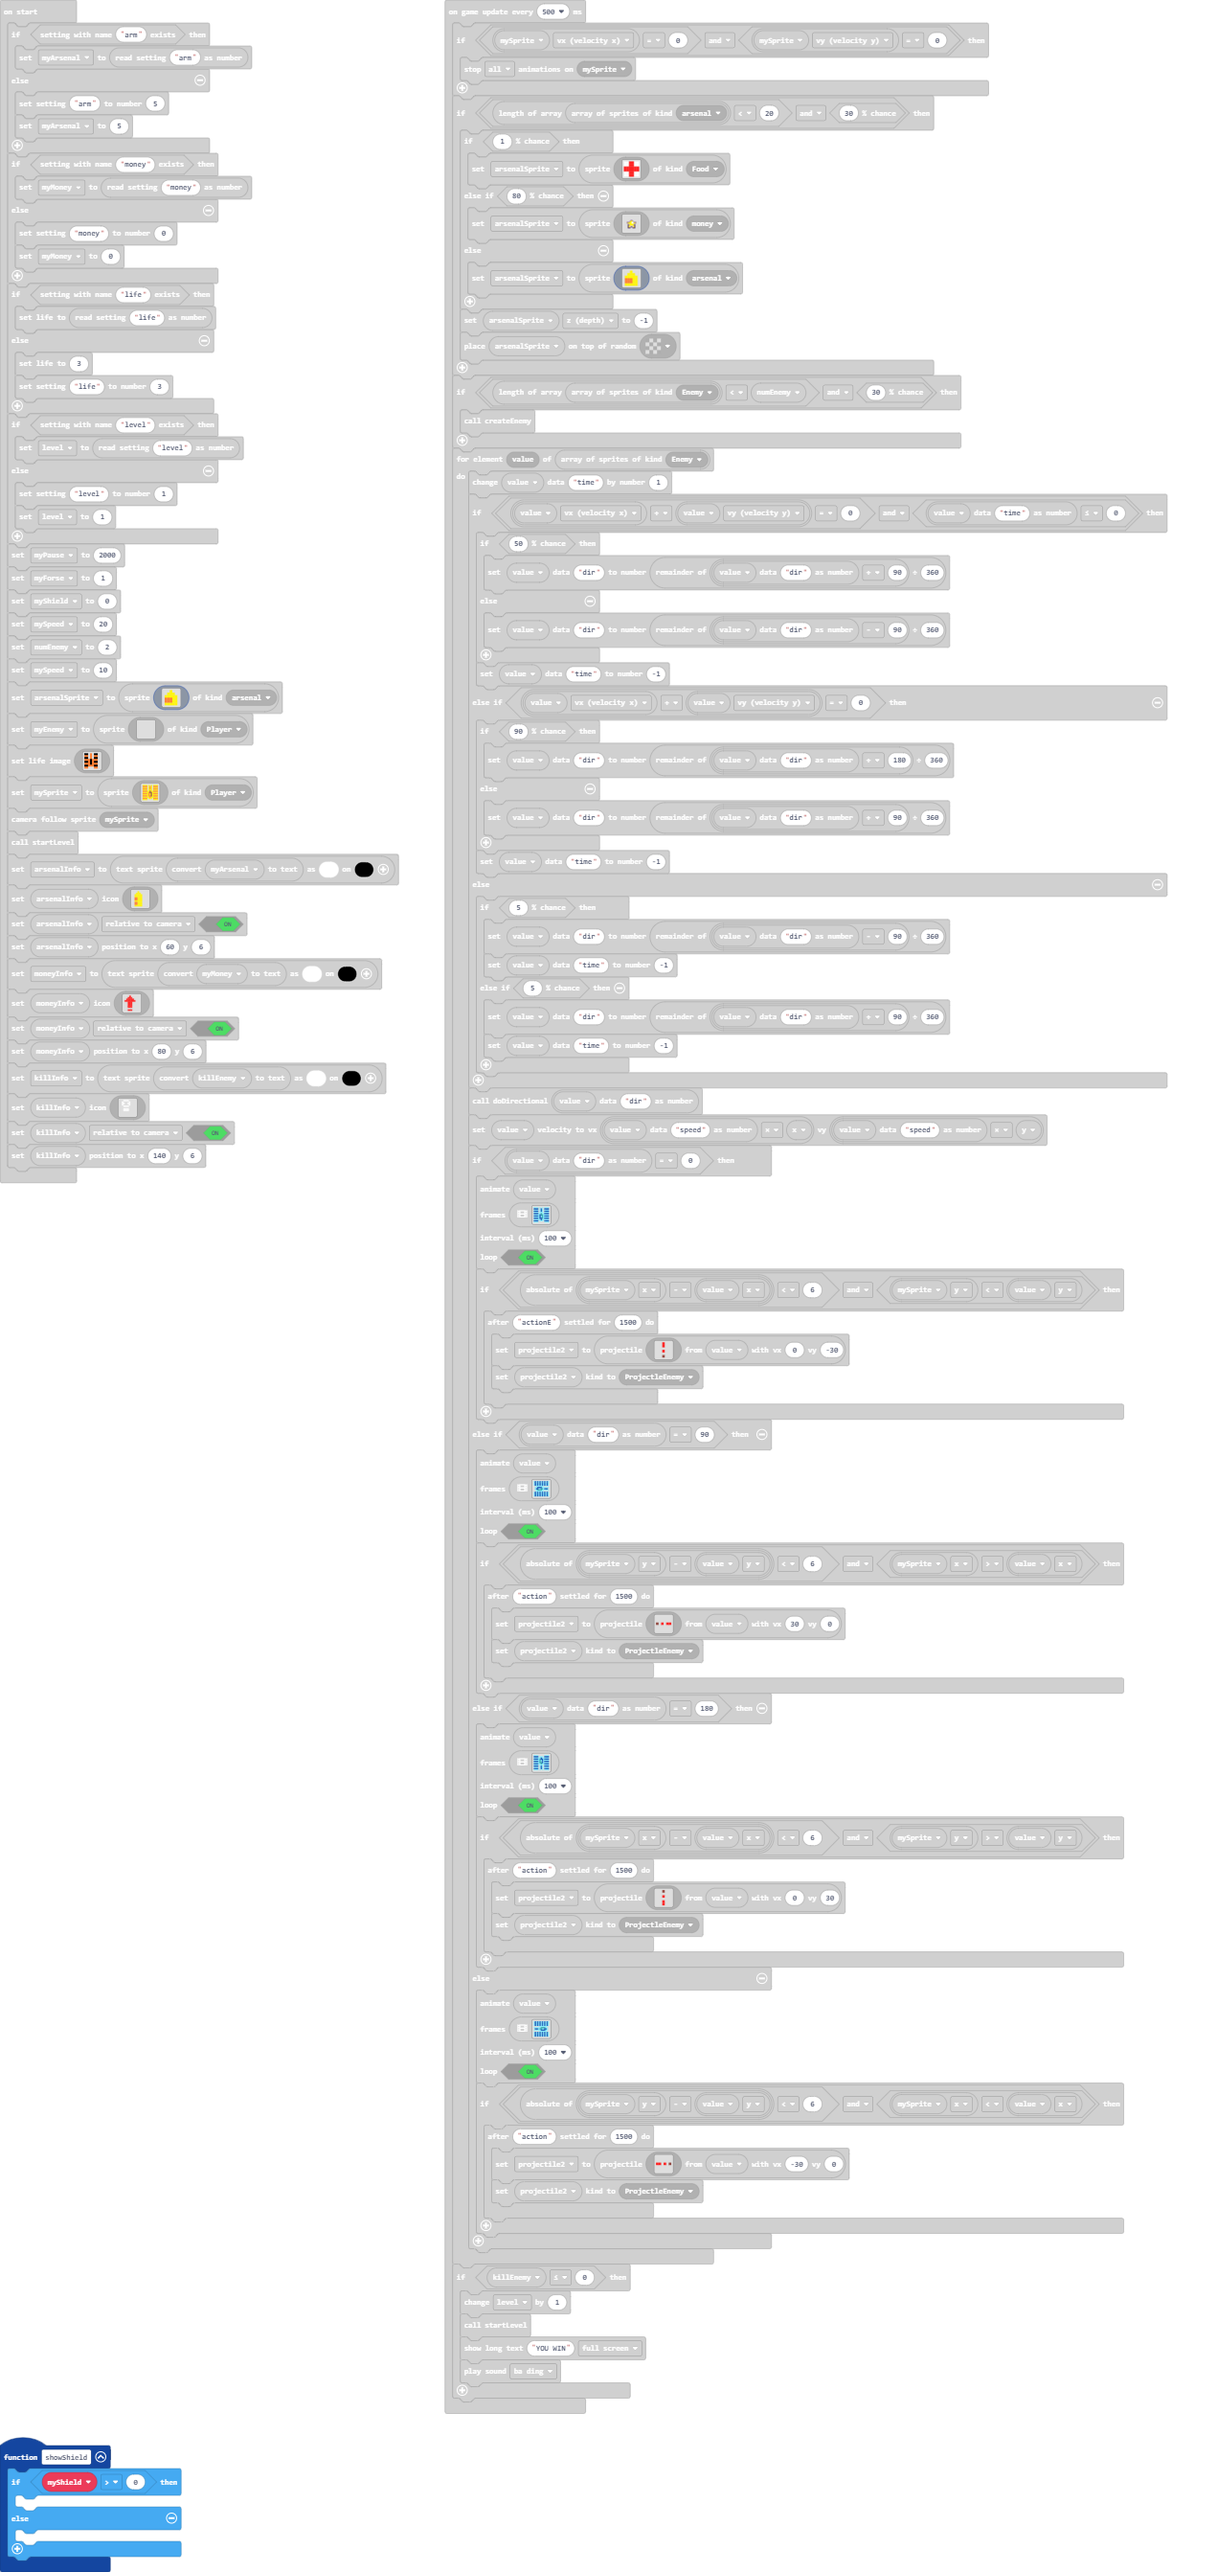
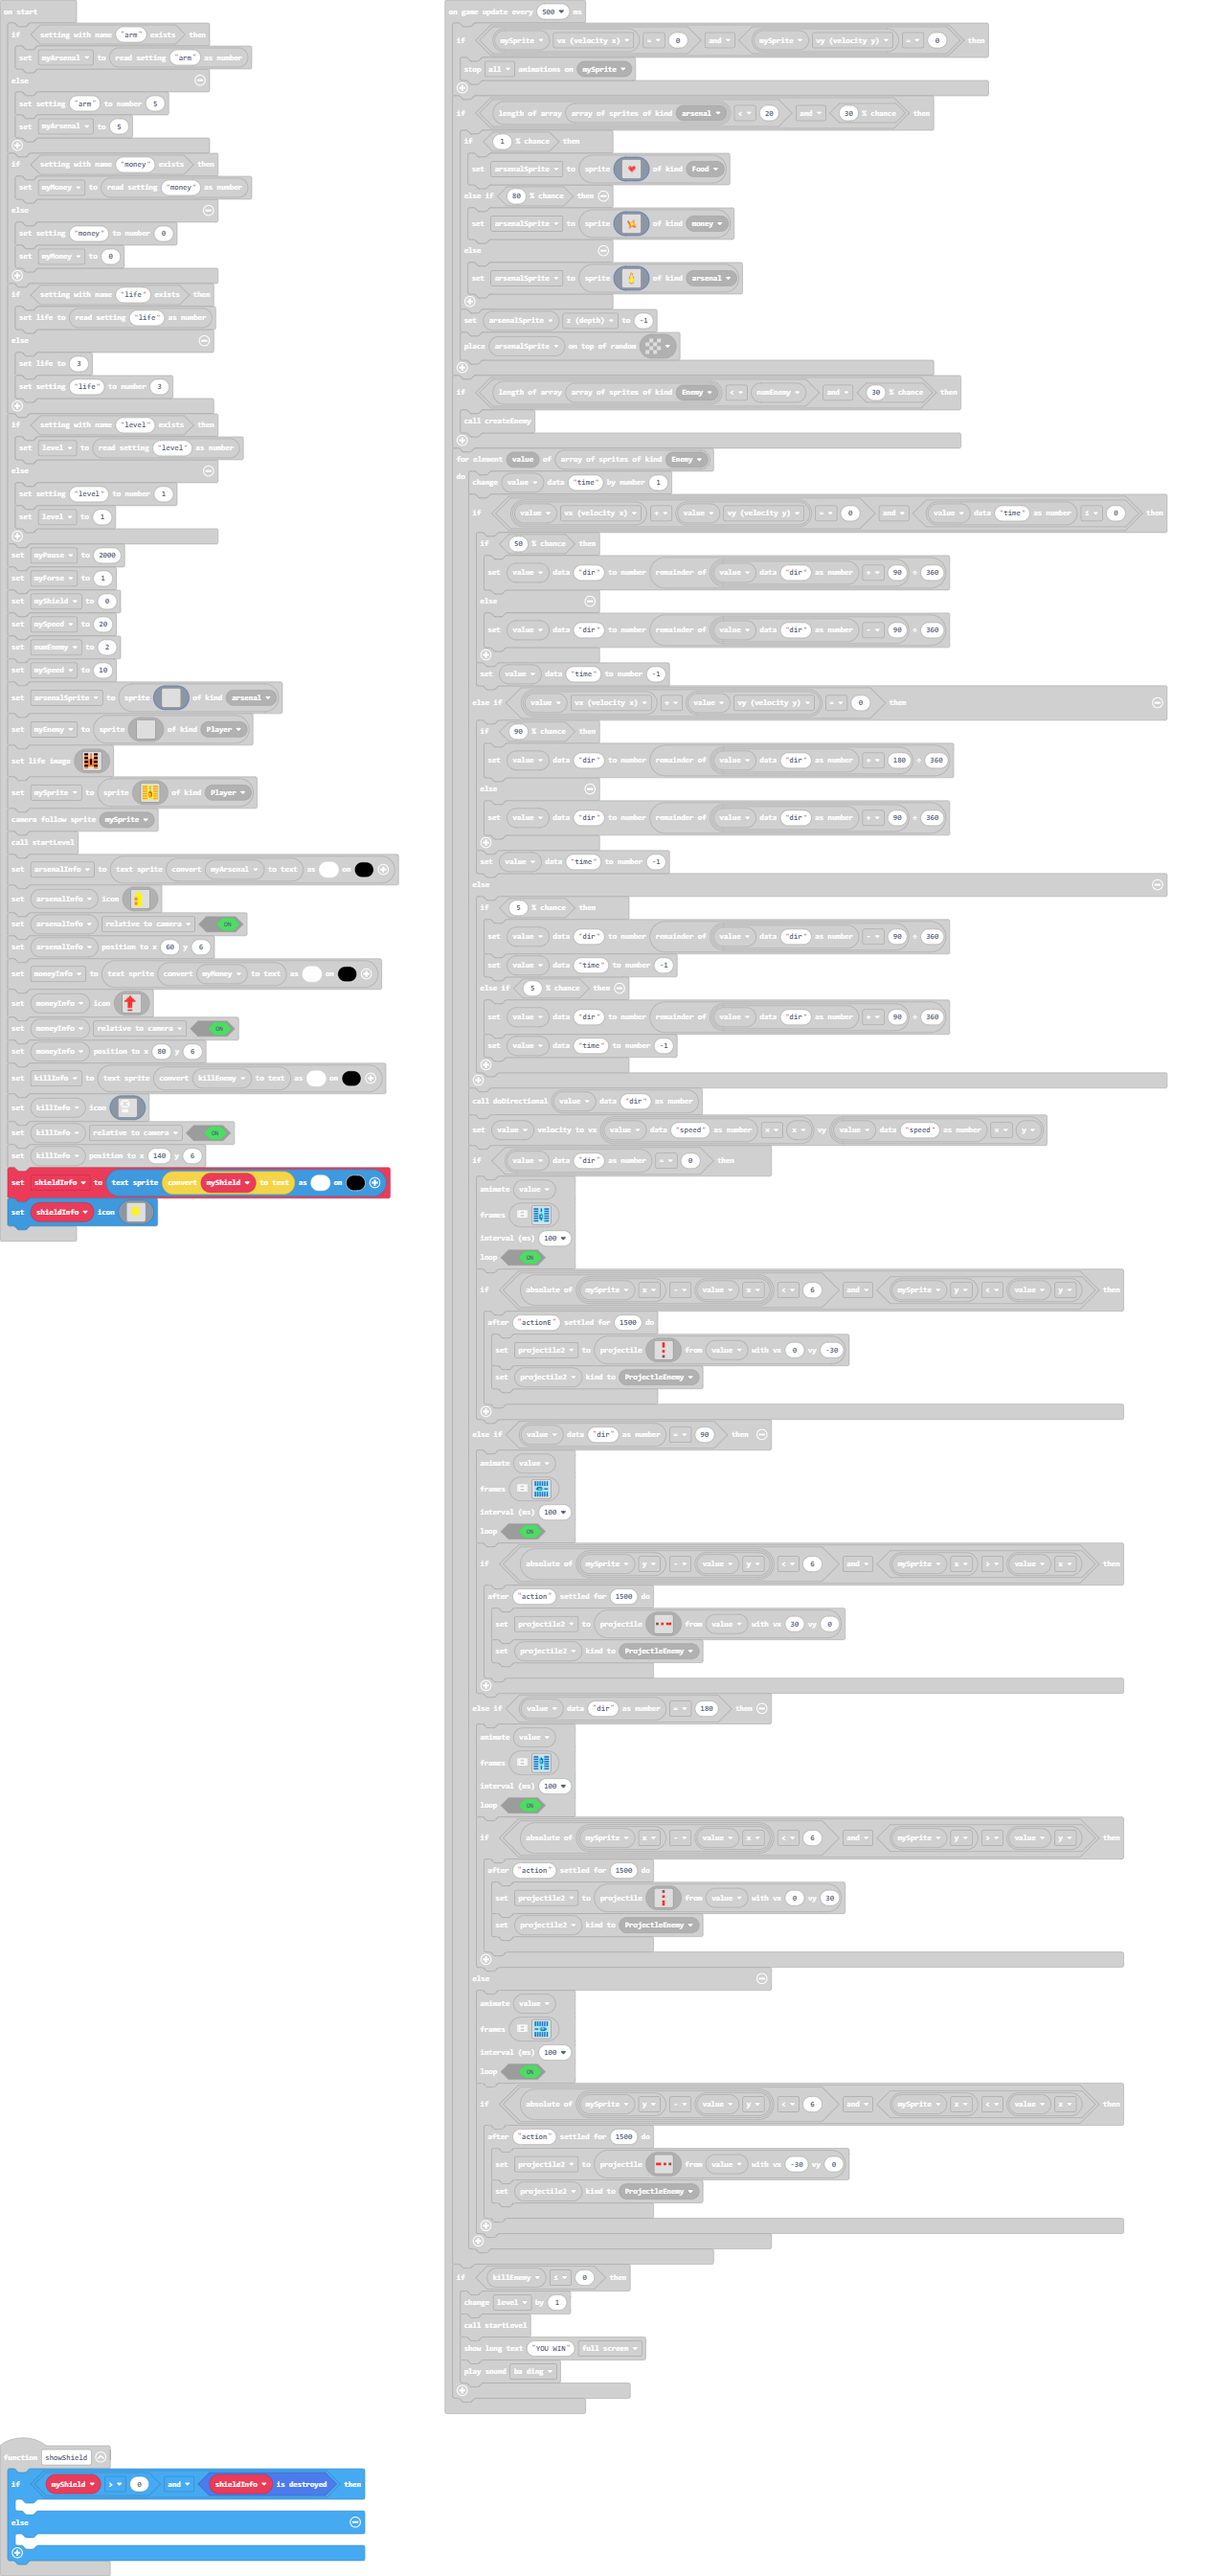
Update main.blocks, main.ts

diff --git a/main.ts b/main.ts
@@ -288,7 +288,7 @@ scene.onHitWall(SpriteKind.Projectile, function (sprite, location) {
     sprite.destroy(effects.fire, 100)
 })
 function showShield () {
-    if (myShield > 0) {
+    if (myShield > 0 && spriteutils.isDestroyed(shieldInfo)) {
     	
     } else {
     	
@@ -342,6 +342,7 @@ let y = 0
 let x = 0
 let projectile: Sprite = null
 let myDirectional = 0
+let shieldInfo: TextSprite = null
 let killEnemy = 0
 let killInfo: TextSprite = null
 let moneyInfo: TextSprite = null
@@ -387,12 +388,12 @@ mySpeed = 20
 numEnemy = 2
 mySpeed = 10
 let arsenalSprite = sprites.create(img`
-    . . 5 . . 
-    . 5 5 5 . 
-    5 5 5 5 5 
-    4 4 4 5 5 
-    4 4 4 5 5 
-    5 5 5 5 5 
+    . . . . . 
+    . . . . . 
+    . . . . . 
+    . . . . . 
+    . . . . . 
+    . . . . . 
     `, SpriteKind.arsenal)
 myEnemy = sprites.create(img`
     . . . . . . . . . . . . . . . . 
@@ -457,20 +458,32 @@ moneyInfo.setFlag(SpriteFlag.RelativeToCamera, true)
 moneyInfo.setPosition(80, 6)
 killInfo = textsprite.create(convertToText(killEnemy), 15, 1)
 killInfo.setIcon(img`
-    . 1 1 1 1 . . . 
-    1 . . . . 1 . . 
-    1 1 . . 1 1 . . 
-    1 . . . . 1 . . 
-    . 1 1 1 1 . . . 
-    . . . . . . . . 
-    . 1 1 1 1 . . . 
-    . 1 1 1 1 . . . 
-    . . . . . . . . 
-    . . . . . . . . 
-    . . . . . . . . 
+    . 1 1 1 1 . . . . 
+    1 . . . . 1 . . . 
+    1 1 . . 1 1 . . . 
+    1 . . . . 1 . . . 
+    . 1 1 1 1 . . . . 
+    . . . . . . . . . 
+    . 1 1 1 1 . . . . 
+    . 1 1 1 1 . . . . 
+    . . . . . . . . . 
+    . . . . . . . . . 
     `)
 killInfo.setFlag(SpriteFlag.RelativeToCamera, true)
 killInfo.setPosition(140, 6)
+shieldInfo = textsprite.create(convertToText(myShield), 15, 1)
+shieldInfo.setIcon(img`
+    . . . . . . . . 
+    . . . 5 . . . . 
+    . 5 5 5 5 5 . . 
+    . 5 5 5 5 5 . . 
+    . 5 5 5 5 5 . . 
+    . 5 5 5 5 5 . . 
+    . . 5 5 5 . . . 
+    . . . 5 . . . . 
+    . . . . . . . . 
+    . . . . . . . . 
+    `)
 game.onUpdateInterval(500, function () {
     if (mySprite.vx == 0 && mySprite.vy == 0) {
         animation.stopAnimation(animation.AnimationTypes.All, mySprite)
@@ -478,12 +491,26 @@ game.onUpdateInterval(500, function () {
     if (sprites.allOfKind(SpriteKind.arsenal).length < 20 && Math.percentChance(30)) {
         if (Math.percentChance(1)) {
             arsenalSprite = sprites.create(img`
-                1 1 2 2 1 1 
-                1 1 2 2 1 1 
-                2 2 2 2 2 2 
-                2 2 2 2 2 2 
-                1 1 2 2 1 1 
-                1 1 2 2 1 1 
+                ....................
+                ....................
+                ....................
+                ....................
+                ....................
+                ....................
+                .......22...22......
+                ......2322.2222.....
+                ......232222222.....
+                ......222222222.....
+                .......22222b2......
+                ........222b2.......
+                .........222........
+                ..........2.........
+                ....................
+                ....................
+                ....................
+                ....................
+                ....................
+                ....................
                 `, SpriteKind.Food)
         } else if (Math.percentChance(80)) {
             arsenalSprite = sprites.create(img`
@@ -491,27 +518,37 @@ game.onUpdateInterval(500, function () {
                 . . . . . . . . . . . . . . . . 
                 . . . . . . . . . . . . . . . . 
                 . . . . . . . . . . . . . . . . 
-                . . . . . . . b b . . . . . . . 
-                . . . . . . b 5 5 b . . . . . . 
-                . . . b b b 5 5 1 1 b b b . . . 
-                . . . b 5 5 5 5 1 1 5 5 b . . . 
-                . . . . b d 5 5 5 5 d b . . . . 
-                . . . . c b 5 5 5 5 b c . . . . 
-                . . . . c 5 d d d d 5 c . . . . 
-                . . . . c 5 d c c d 5 c . . . . 
-                . . . . c c c . . c c c . . . . 
+                . . . . . . . . . . 4 . . . . . 
+                . . . . 2 . . . . 4 4 . . . . . 
+                . . . . 2 4 . . 4 5 4 . . . . . 
+                . . . . . 2 4 d 5 5 4 . . . . . 
+                . . . . . 2 5 5 5 5 4 . . . . . 
+                . . . . . . 2 5 5 5 5 4 . . . . 
+                . . . . . . 2 5 4 2 4 4 . . . . 
+                . . . . . . 4 4 . . 2 4 4 . . . 
+                . . . . . 4 4 . . . . . . . . . 
                 . . . . . . . . . . . . . . . . 
                 . . . . . . . . . . . . . . . . 
                 . . . . . . . . . . . . . . . . 
                 `, SpriteKind.money)
         } else {
             arsenalSprite = sprites.create(img`
-                . . 5 . . 
-                . 5 5 5 . 
-                5 5 5 5 5 
-                4 4 4 5 5 
-                4 4 4 5 5 
-                5 5 5 5 5 
+                . . . . . . . 
+                . . . . . . . 
+                . . . 4 . . . 
+                . . 4 5 4 . . 
+                . . 4 5 4 . . 
+                . . d 5 d . . 
+                . 4 d 5 d 4 . 
+                . 4 5 5 5 4 . 
+                . 4 5 5 5 d . 
+                . d 5 5 5 d . 
+                . d 5 5 5 d . 
+                . d 5 5 5 d . 
+                . 4 d 5 d 4 . 
+                . . 4 4 4 . . 
+                . . . . . . . 
+                . . . . . . . 
                 `, SpriteKind.arsenal)
         }
         arsenalSprite.z = -1
